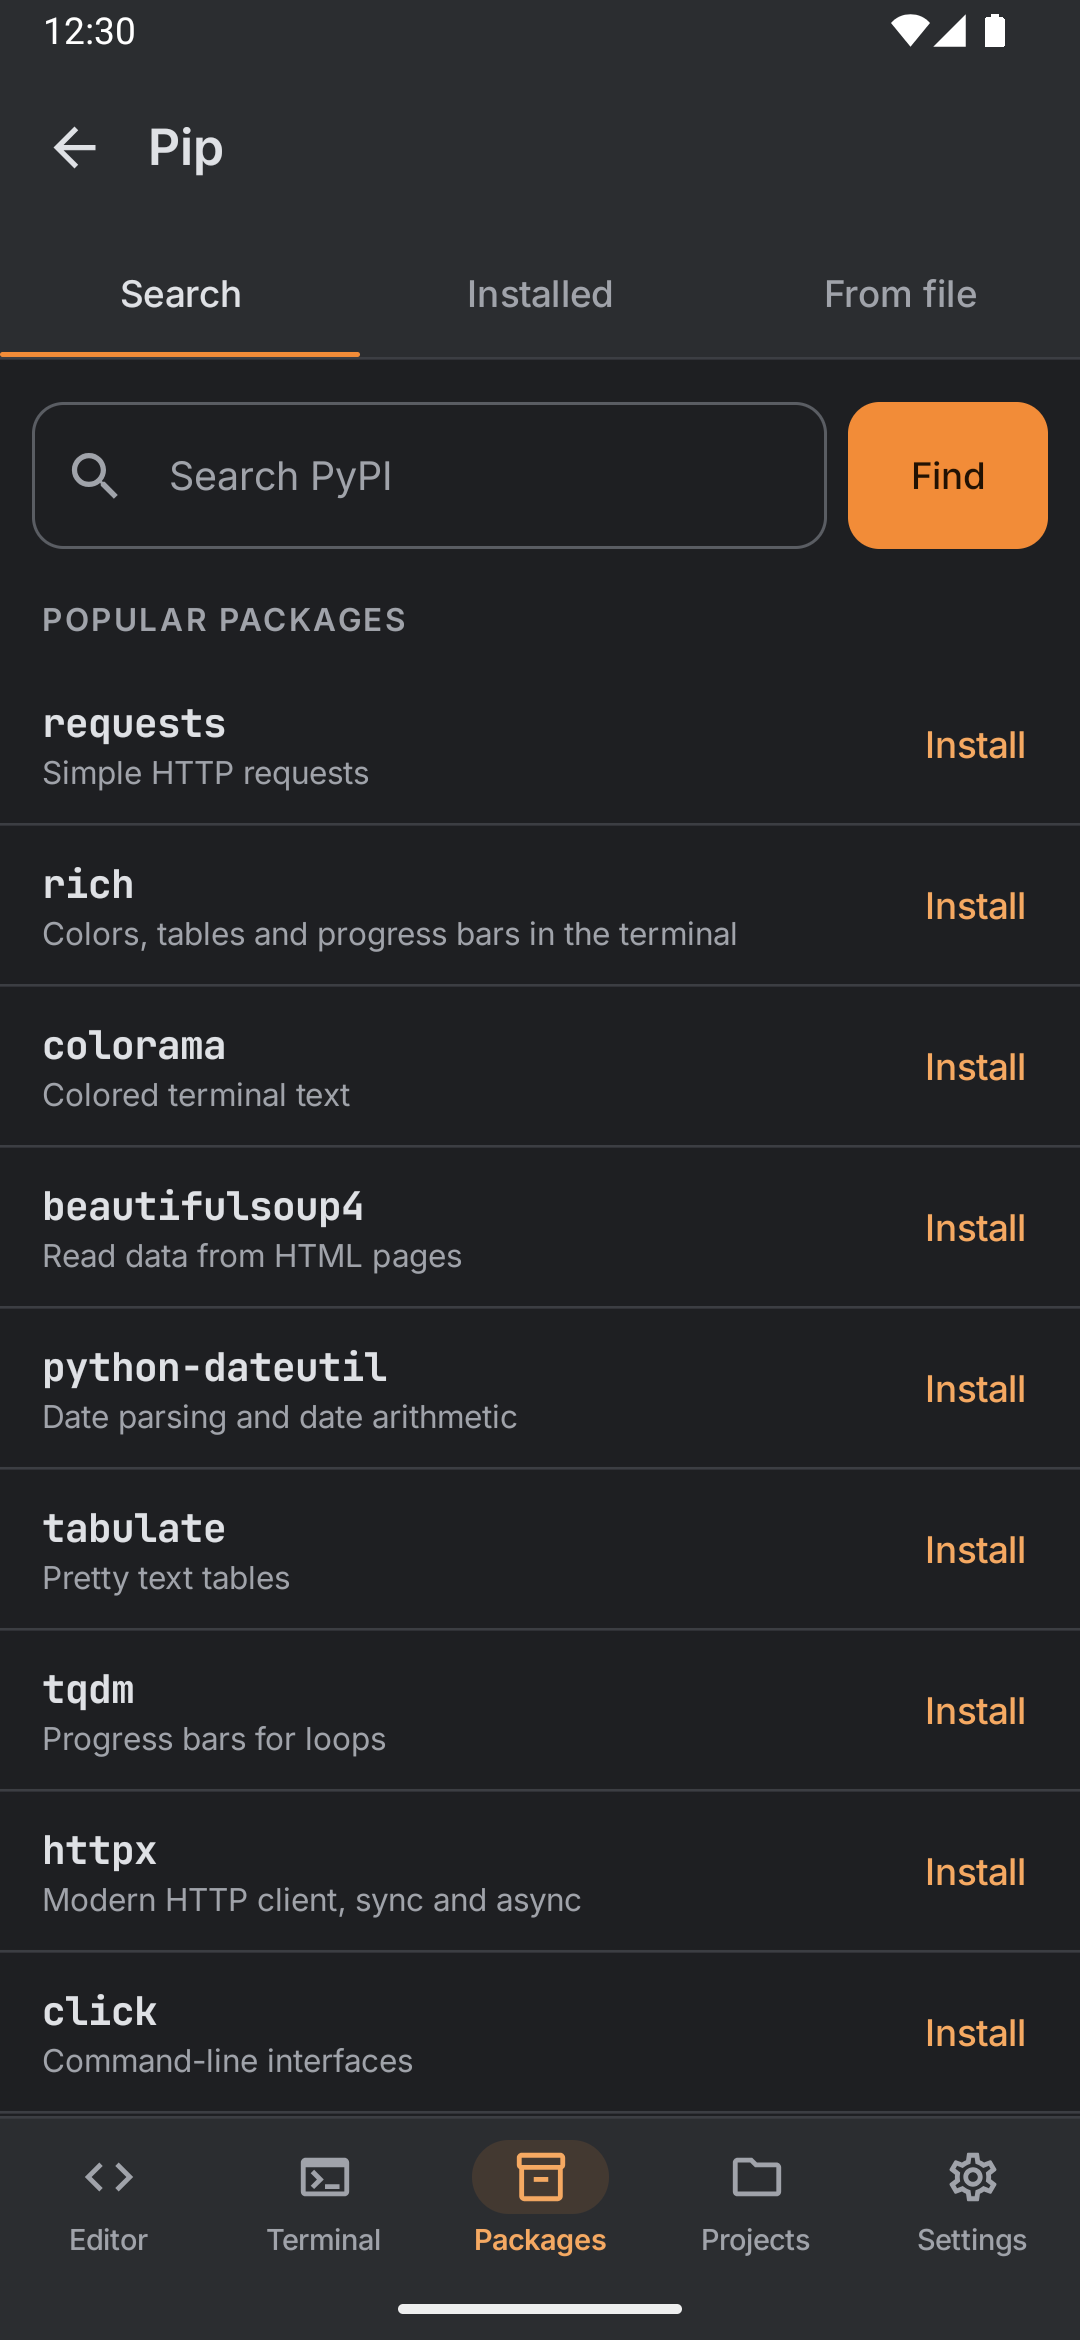
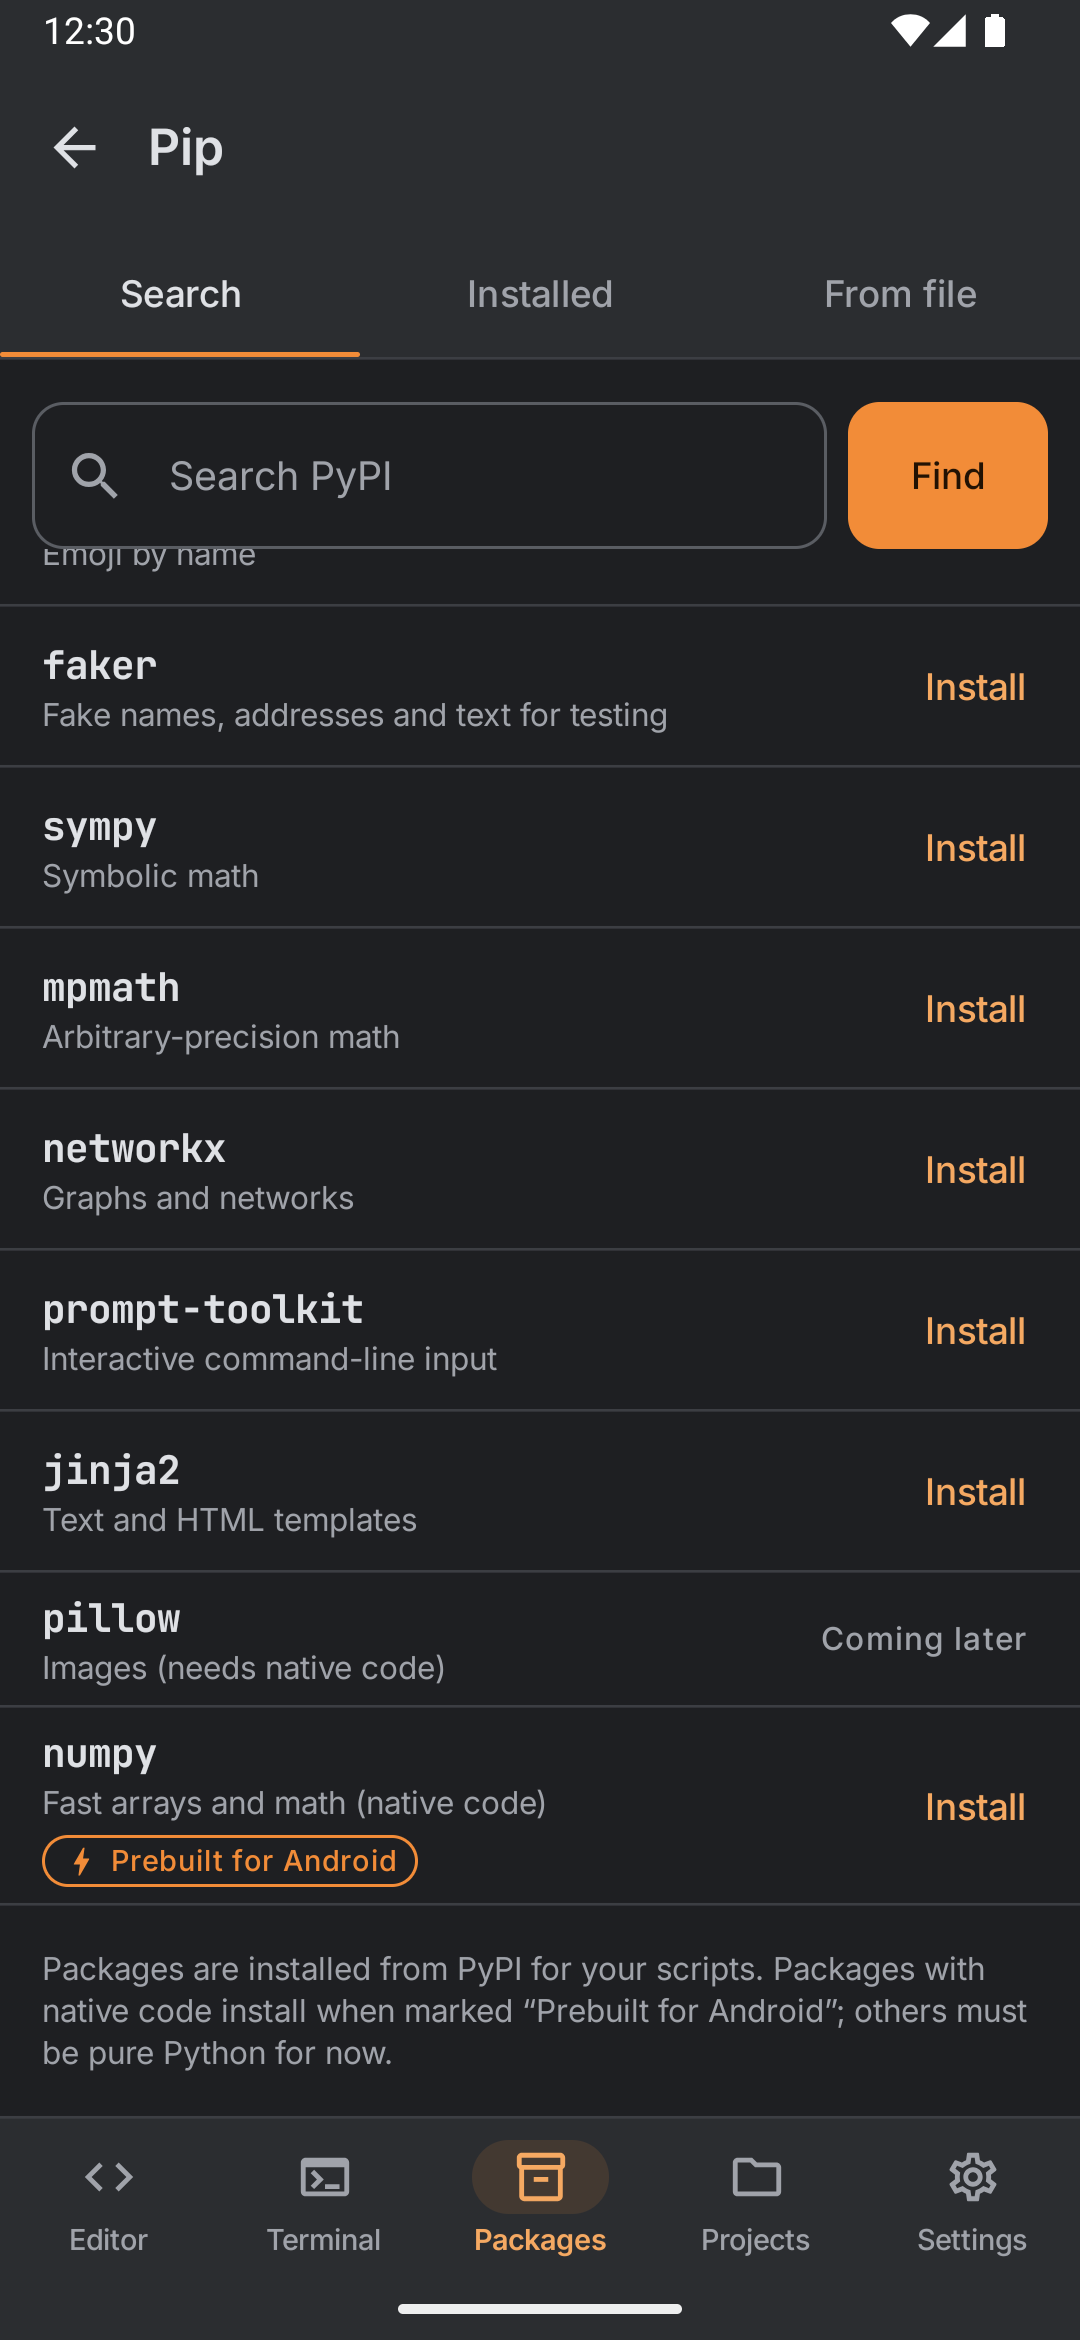
docs: 0.0.4 screenshots — NumPy and the image viewer

diff --git a/README.md b/README.md
@@ -103,6 +103,12 @@ Everything works **offline** except installing packages with pip.
   <img src="docs/screenshots/about.png" width="24%" alt="About">
   <img src="docs/screenshots/editor_ru.png" width="24%" alt="Russian interface">
 </p>
+<p align="center">
+  <img src="docs/screenshots/numpy_run.png" width="24%" alt="NumPy script output">
+  <img src="docs/screenshots/numpy_install.png" width="24%" alt="Installing NumPy">
+  <img src="docs/screenshots/image_chip.png" width="24%" alt="Script that saved a picture">
+  <img src="docs/screenshots/image_viewer.png" width="24%" alt="Image viewer">
+</p>
 
 ## 📥 Install
 
